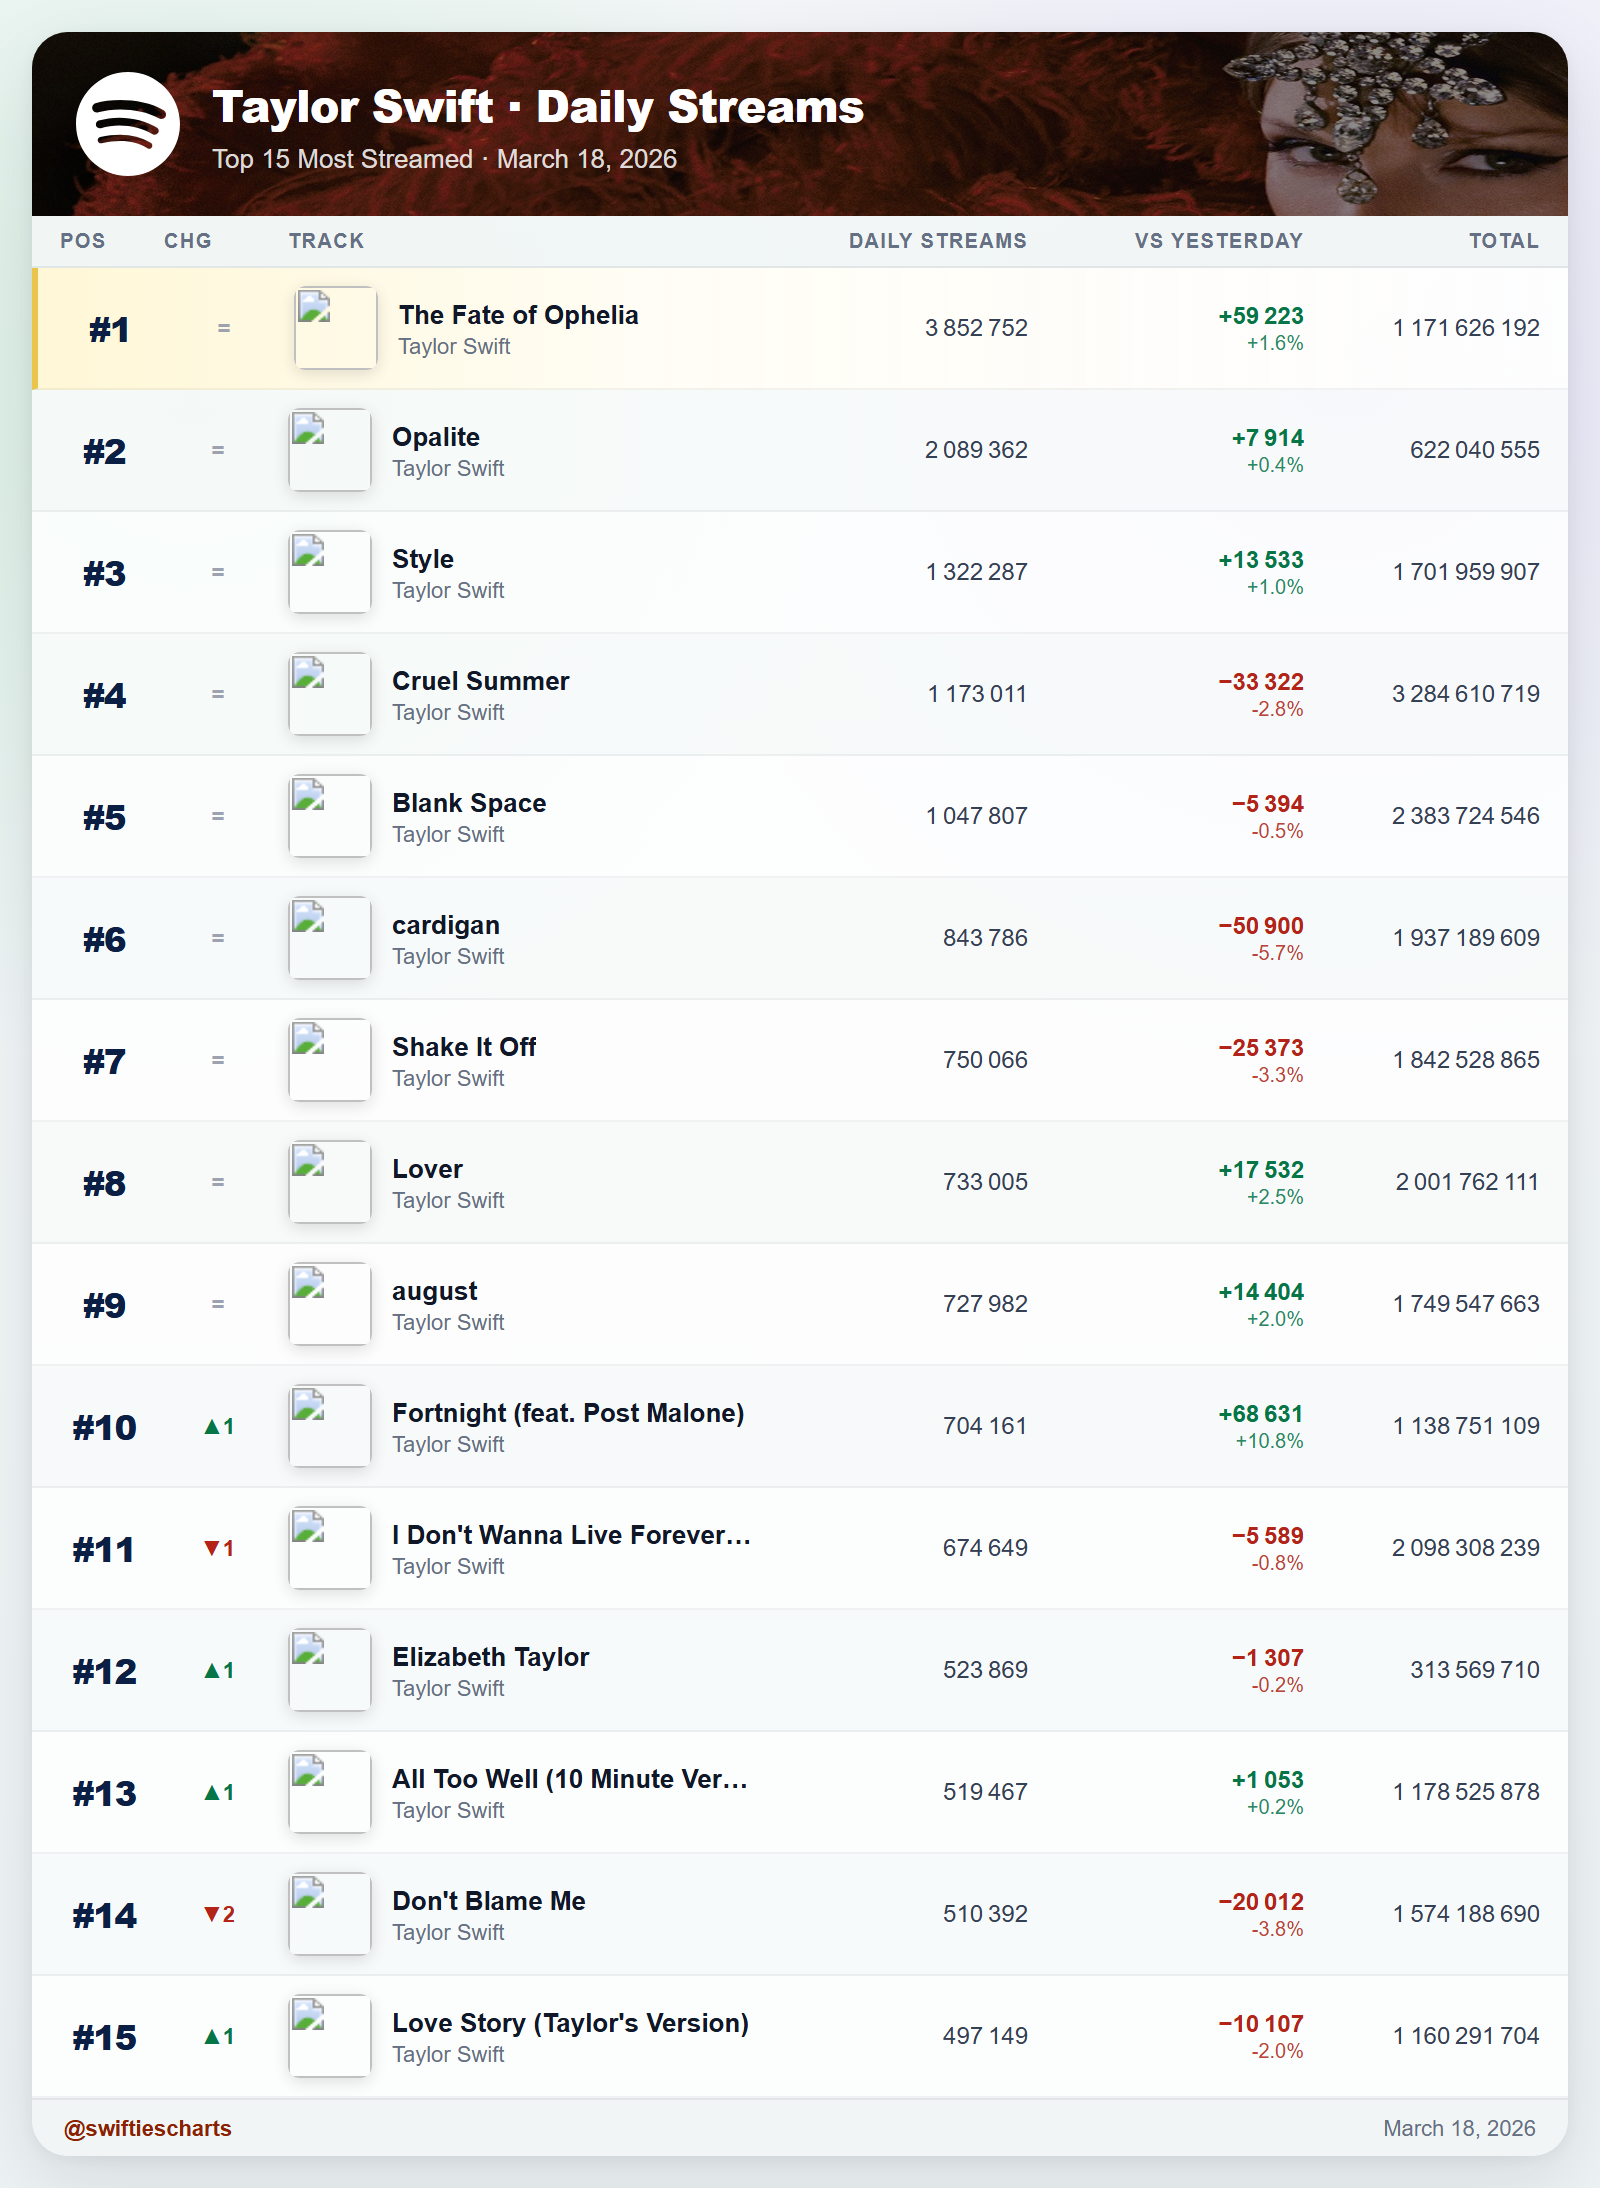
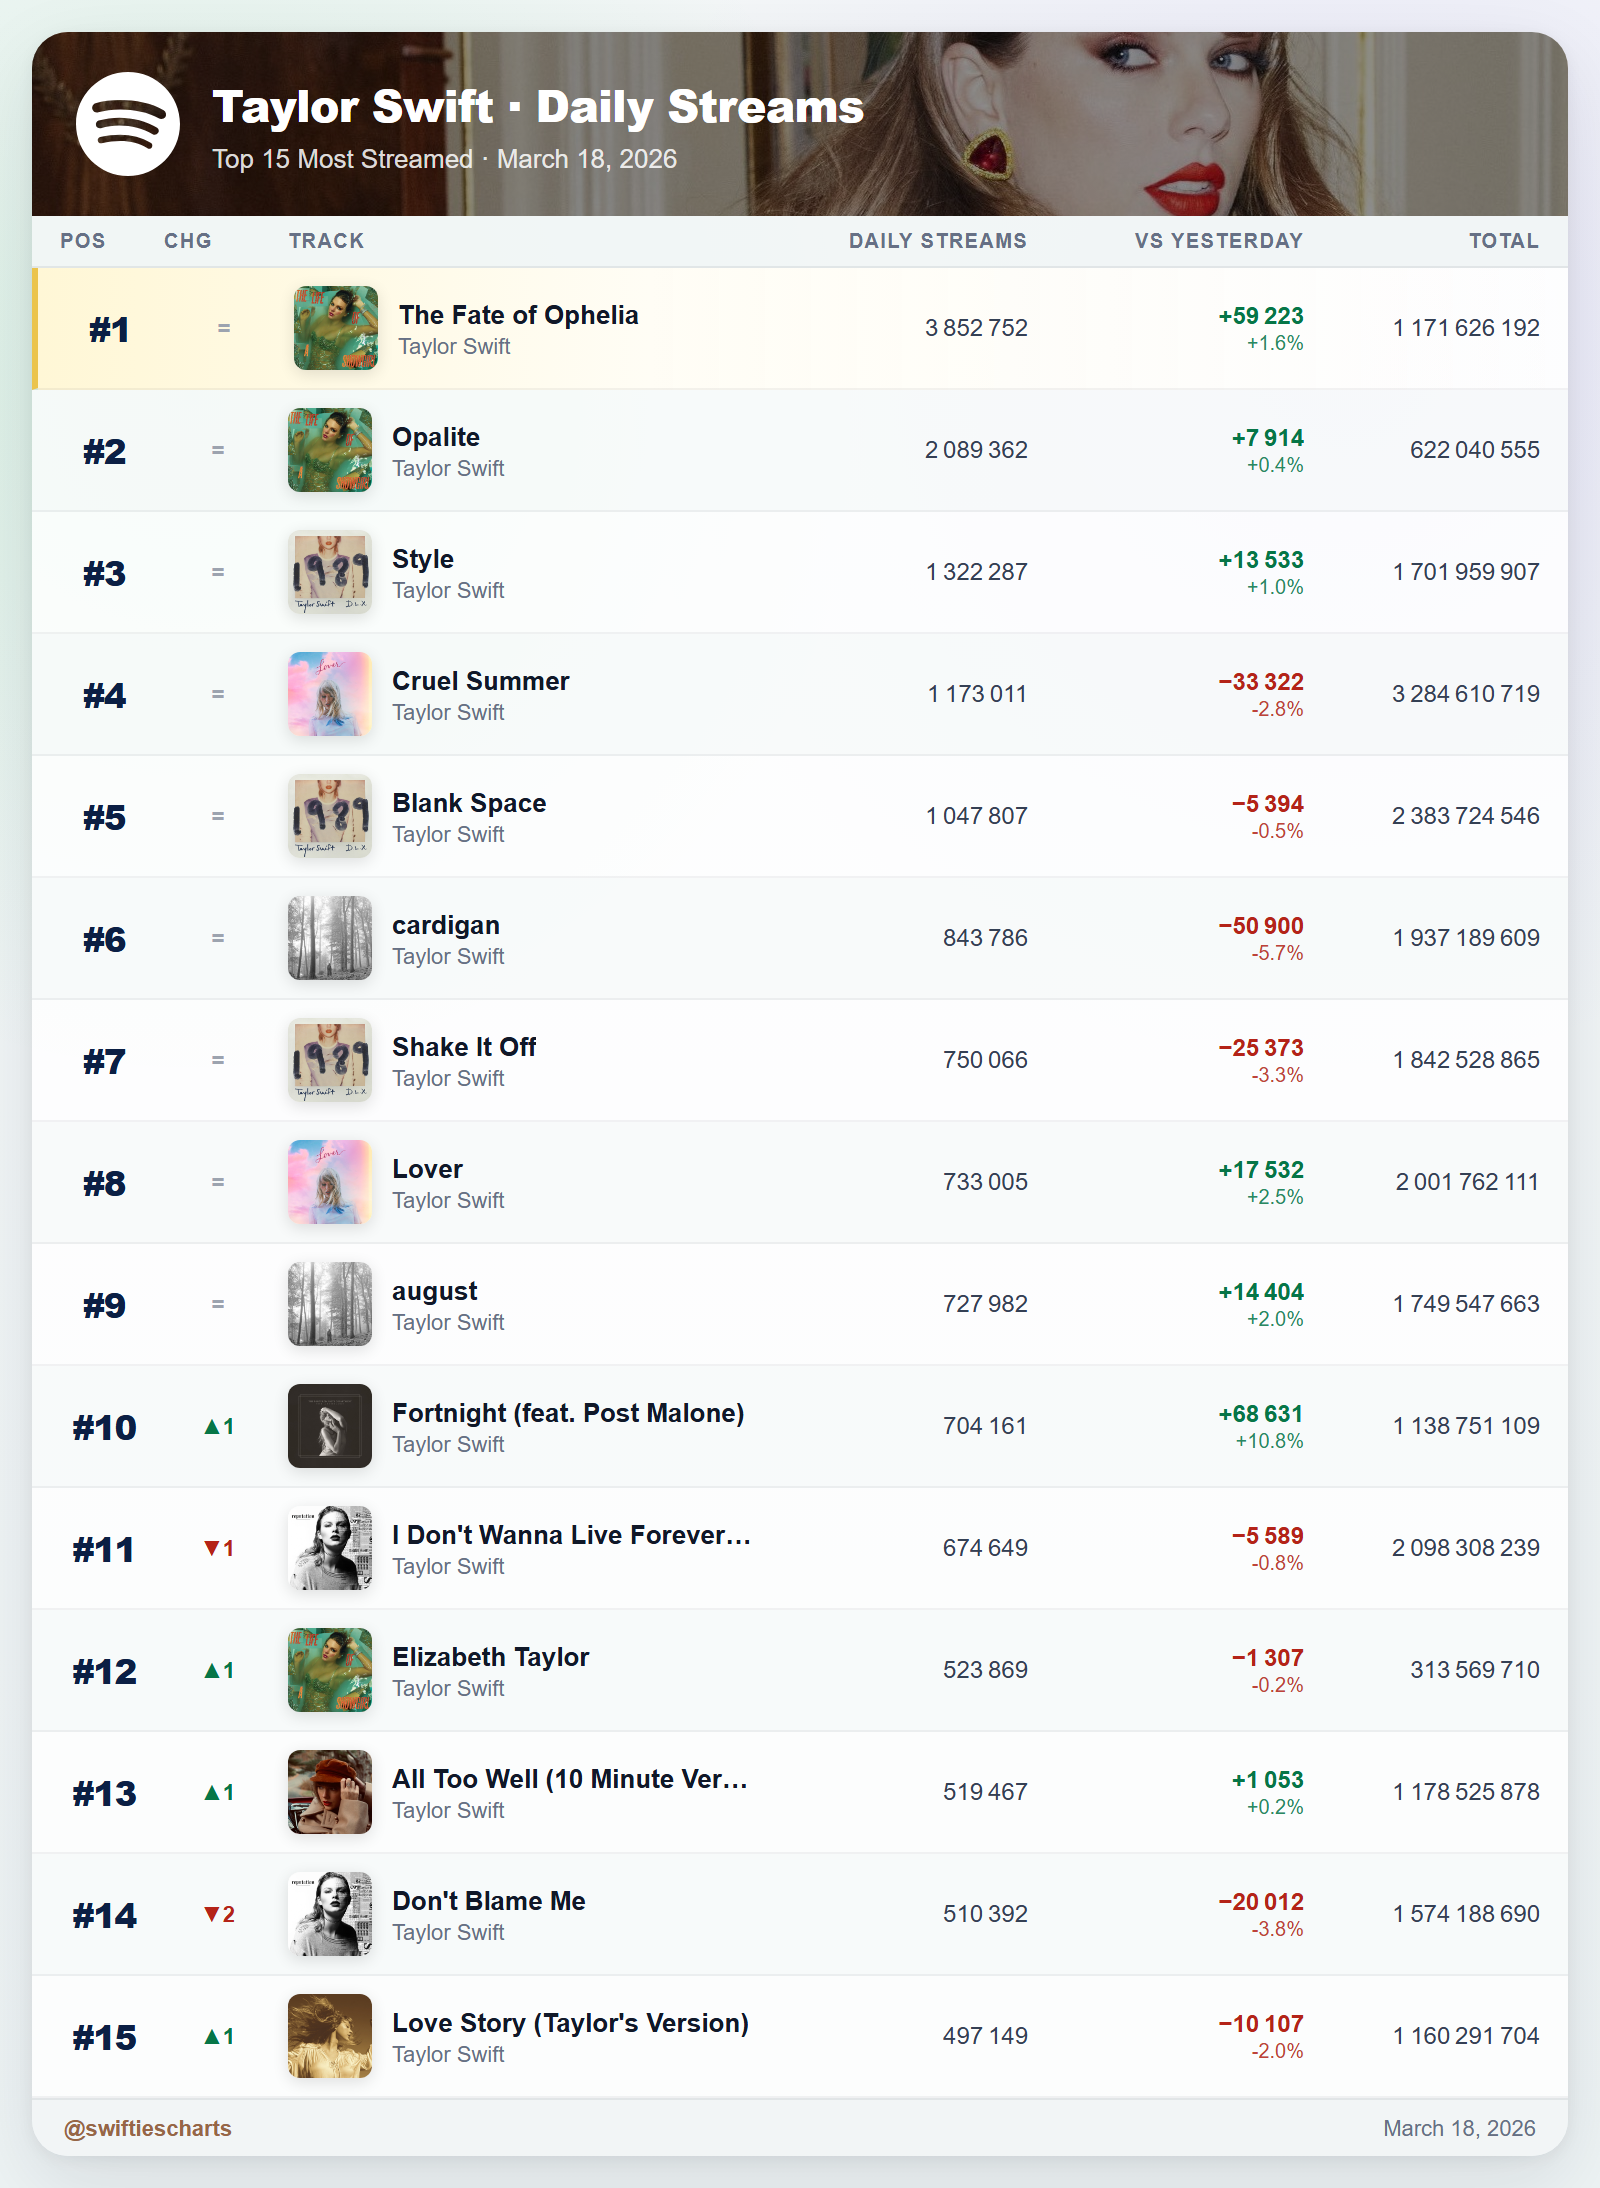
Refactor timeout settings and improve image handling in scraping scripts

Changed region(s): [[0.1562, 0.0, 1.0, 0.9634], [0.0, 0.0, 0.2188, 0.1243], [0.0625, 0.9634, 0.0938, 0.9945]]

diff --git a/website/albums.html b/website/albums.html
@@ -3,7 +3,7 @@
 <head>
   <meta charset="UTF-8">
   <meta name="viewport" content="width=device-width,initial-scale=1">
-  <title>Daily Charts • Albums</title>
+  <title>Daily Charts • Top Albums</title>
   <meta name="description" content="Browse Taylor Swift albums and open each album page with ranked songs.">
   <link rel="stylesheet" href="styles.css">
 </head>

diff --git a/collectors/spotify/streams/generate_streams_image.py b/collectors/spotify/streams/generate_streams_image.py
@@ -9,11 +9,14 @@ Usage:
   python generate_streams_image.py               # dernière date dans le CSV
   python generate_streams_image.py 2026-03-15    # date spécifique
 """
+import base64
 import colorsys
+import concurrent.futures
 import csv
 import json
 import re
 import sys
+import urllib.request
 from datetime import date as date_cls, timedelta
 from pathlib import Path
 
@@ -99,20 +102,21 @@ def load_covers() -> dict:
 
 
 def load_track_album_map() -> dict:
-    """Returns {normalized_track_title → album_title} from songs.json."""
-    if not SONGS_JSON.exists():
-        return {}
+    """Returns {normalized_track_title → album_title} from albums.json + songs.json."""
     result = {}
-    try:
-        groups = json.loads(SONGS_JSON.read_text(encoding="utf-8"))
-        for group in groups:
-            album_name = group.get("album", "")
-            for track in group.get("tracks", []):
-                title = track.get("title", "")
-                if title:
-                    result[_norm(title)] = album_name
-    except Exception:
-        pass
+    for path in [DB_DIR / "discography" / "albums.json", SONGS_JSON]:
+        if not path.exists():
+            continue
+        try:
+            groups = json.loads(path.read_text(encoding="utf-8"))
+            for group in groups:
+                album_name = group.get("album", "")
+                for track in group.get("tracks", []):
+                    title = track.get("title", "")
+                    if title:
+                        result[_norm(title)] = album_name
+        except Exception:
+            pass
     return result
 
 
@@ -368,7 +372,44 @@ SPOTIFY_SVG = """<svg class="hdr-logo" viewBox="0 0 24 24" fill="white" xmlns="h
 </svg>"""
 
 
-def build_rows_html(top15: list[dict], cover_map: dict, track_album_map: dict) -> str:
+def _url_to_data_uri(url: str) -> str:
+    """Download an image URL and return a base64 data URI (empty string on failure)."""
+    if not url:
+        return ""
+    try:
+        req = urllib.request.Request(url, headers={"User-Agent": "Mozilla/5.0"})
+        with urllib.request.urlopen(req, timeout=8) as r:
+            data = r.read()
+            ct = r.headers.get("Content-Type", "image/jpeg").split(";")[0].strip()
+            return f"data:{ct};base64,{base64.b64encode(data).decode()}"
+    except Exception:
+        return ""
+
+
+def prefetch_images(top15: list[dict], cover_map: dict, track_album_map: dict) -> dict[str, str]:
+    """Resolve cover URLs for all top15 entries and return {url: data_uri}."""
+    urls = set()
+    for entry in top15:
+        img_url = entry.get("image_url", "")
+        album_name = track_album_map.get(_norm(entry["title"]), "")
+        cover_url = cover_map.get(_norm(album_name), "") if album_name else ""
+        if not cover_url:
+            cover_url = img_url
+        if cover_url:
+            urls.add(cover_url)
+
+    result: dict[str, str] = {}
+    with concurrent.futures.ThreadPoolExecutor(max_workers=15) as ex:
+        futures = {ex.submit(_url_to_data_uri, u): u for u in urls}
+        for fut, url in futures.items():
+            data_uri = fut.result()
+            if data_uri:
+                result[url] = data_uri
+    return result
+
+
+def build_rows_html(top15: list[dict], cover_map: dict, track_album_map: dict,
+                    image_cache: dict[str, str] | None = None) -> str:
     html = ""
     for i, entry in enumerate(top15):
         rank    = i + 1
@@ -384,6 +425,10 @@ def build_rows_html(top15: list[dict], cover_map: dict, track_album_map: dict) -
         cover_url  = cover_map.get(_norm(album_name), "") if album_name else ""
         if not cover_url:
             cover_url = img_url
+
+        # Use pre-fetched data URI so Playwright doesn't need network access
+        if image_cache and cover_url:
+            cover_url = image_cache.get(cover_url, cover_url)
 
         art_html = (
             f'<img class="art" src="{cover_url}" />'
@@ -423,10 +468,11 @@ def build_rows_html(top15: list[dict], cover_map: dict, track_album_map: dict) -
     return html
 
 
-def build_html(top15: list[dict], target_date: str, cover_map: dict, track_album_map: dict) -> str:
+def build_html(top15: list[dict], target_date: str, cover_map: dict, track_album_map: dict,
+               image_cache: dict[str, str] | None = None) -> str:
     from datetime import datetime
     date_fmt   = datetime.strptime(target_date, "%Y-%m-%d").strftime("%B %d, %Y")
-    rows_html  = build_rows_html(top15, cover_map, track_album_map)
+    rows_html  = build_rows_html(top15, cover_map, track_album_map, image_cache)
 
     header_img   = _pick_header_image()
     handle_color = "#1db954"
@@ -436,7 +482,7 @@ def build_html(top15: list[dict], target_date: str, cover_map: dict, track_album
         img_url      = header_img.as_posix()
         hdr_style    = (
             f'style="background-image: linear-gradient(rgba(0,0,0,.45),rgba(0,0,0,.45)),'
-            f'url(\'file:///{img_url}\'); background-size:100% 100%;"'
+            f'url(\'file:///{img_url}\'); background-size:cover; background-position:center;"'
         )
     else:
         hdr_style = 'style="background:linear-gradient(135deg,#1db954 0%,#17a34a 100%);"'
@@ -492,7 +538,11 @@ def generate(target_date: str | None = None) -> Path:
         daily_fmt = f"{e['daily_streams']:,}"
         print(f"  #{i:2d} {e['title']:<40} {daily_fmt} streams/day")
 
-    html     = build_html(top15, target_date, cover_map, track_album_map)
+    print("Téléchargement des images...")
+    image_cache = prefetch_images(top15, cover_map, track_album_map)
+    print(f"  {len(image_cache)} images téléchargées")
+
+    html     = build_html(top15, target_date, cover_map, track_album_map, image_cache)
     out_path = SCRIPT_DIR / f"streams_image_{target_date}.png"
     tmp_html = SCRIPT_DIR / "_streams_tmp.html"
     tmp_html.write_text(html, encoding="utf-8")
@@ -502,7 +552,7 @@ def generate(target_date: str | None = None) -> Path:
             browser = p.chromium.launch(headless=True)
             page    = browser.new_page(viewport={"width": 800, "height": 200}, device_scale_factor=2)
             page.goto(f"file:///{tmp_html.as_posix()}", wait_until="load")
-            page.wait_for_timeout(1500)
+            page.wait_for_timeout(300)  # images are base64-embedded, no network needed
             page.locator("body").screenshot(path=str(out_path))
             browser.close()
     finally:

diff --git a/collectors/spotify/charts/global/filter.py b/collectors/spotify/charts/global/filter.py
@@ -176,12 +176,12 @@ def scrape_chart_rows(chart_date: str) -> list[dict]:
                 )
 
                 page = context.new_page()
-                page.set_default_navigation_timeout(120_000)
-                page.set_default_timeout(120_000)
+                page.set_default_navigation_timeout(60_000)
+                page.set_default_timeout(60_000)
 
                 print(f"  Ouverture {url} (attempt {attempt}/3)...")
-                page.goto(url, wait_until="load", timeout=120_000)
-                page.wait_for_timeout(6000)
+                page.goto(url, wait_until="domcontentloaded", timeout=60_000)
+                page.wait_for_timeout(4000)
 
                 current_url = page.url.lower()
                 if "login" in current_url or "accounts.spotify.com" in current_url:
@@ -195,7 +195,7 @@ def scrape_chart_rows(chart_date: str) -> list[dict]:
                 stable_count = 0
                 while stable_count < 3:
                     page.mouse.wheel(0, 3000)
-                    page.wait_for_timeout(800)
+                    page.wait_for_timeout(500)
                     new_height = page.evaluate("document.body.scrollHeight")
                     if new_height == prev_height:
                         stable_count += 1
@@ -244,7 +244,7 @@ def scrape_chart_rows(chart_date: str) -> list[dict]:
                         # Click on the track name to expand its detail row
                         el = page.get_by_text(track, exact=True).first
                         el.click(timeout=5000)
-                        page.wait_for_timeout(1500)
+                        page.wait_for_timeout(800)
                         # Look for the "Total days on chart" label element, then grab its sibling value
                         td_label = page.get_by_text("Total days on chart", exact=True)
                         if td_label.count() > 0:
@@ -260,7 +260,7 @@ def scrape_chart_rows(chart_date: str) -> list[dict]:
                             print(f"  'Total days on chart' non trouvé dans DOM pour {track}")
                         # Collapse by clicking again
                         el.click(timeout=3000)
-                        page.wait_for_timeout(400)
+                        page.wait_for_timeout(200)
                     except Exception as td_err:
                         print(f"  total_days ignoré pour {track}: {td_err}")
 

diff --git a/collectors/spotify/charts/fr/filter.py b/collectors/spotify/charts/fr/filter.py
@@ -345,12 +345,12 @@ def scrape_chart_rows(chart_date: str) -> list[dict]:
                 )
 
                 page = context.new_page()
-                page.set_default_navigation_timeout(120_000)
-                page.set_default_timeout(120_000)
+                page.set_default_navigation_timeout(60_000)
+                page.set_default_timeout(60_000)
 
                 print(f"  Ouverture {url} (attempt {attempt}/3)...")
-                page.goto(url, wait_until="load", timeout=120_000)
-                page.wait_for_timeout(6000)
+                page.goto(url, wait_until="domcontentloaded", timeout=60_000)
+                page.wait_for_timeout(4000)
 
                 current_url = page.url.lower()
                 if "login" in current_url or "accounts.spotify.com" in current_url:
@@ -364,7 +364,7 @@ def scrape_chart_rows(chart_date: str) -> list[dict]:
                 stable_count = 0
                 while stable_count < 3:
                     page.mouse.wheel(0, 3000)
-                    page.wait_for_timeout(800)
+                    page.wait_for_timeout(500)
                     new_height = page.evaluate("document.body.scrollHeight")
                     if new_height == prev_height:
                         stable_count += 1
@@ -412,7 +412,7 @@ def scrape_chart_rows(chart_date: str) -> list[dict]:
                     try:
                         el = page.get_by_text(track, exact=True).first
                         el.click(timeout=5000)
-                        page.wait_for_timeout(1500)
+                        page.wait_for_timeout(800)
                         td_label = page.get_by_text("Total days on chart", exact=True)
                         if td_label.count() > 0:
                             container_text = td_label.first.locator("xpath=..").inner_text()
@@ -425,7 +425,7 @@ def scrape_chart_rows(chart_date: str) -> list[dict]:
                         else:
                             print(f"  'Total days on chart' non trouvé dans DOM pour {track}")
                         el.click(timeout=3000)
-                        page.wait_for_timeout(400)
+                        page.wait_for_timeout(200)
                     except Exception as td_err:
                         print(f"  total_days ignoré pour {track}: {td_err}")
 

diff --git a/collectors/spotify/streams/update_streams.py b/collectors/spotify/streams/update_streams.py
@@ -37,8 +37,8 @@ ARTIST_PATH      = DISCOGRAPHY_DIR / "artist.json"
 ARTIST_URL = "https://open.spotify.com/artist/06HL4z0CvFAxyc27GXpf02"
 
 HEADLESS = False
-MAX_PARALLEL_PAGES = 10
-PAGE_GOTO_TIMEOUT_MS = 45_000
+MAX_PARALLEL_PAGES = 15
+PAGE_GOTO_TIMEOUT_MS = 20_000
 DEBUG_PAGE_PREVIEW = False
 
 PROBE_TITLES = [
@@ -882,13 +882,13 @@ def scrape_track_total(page, title: str, url: str) -> tuple[int | None, str | No
     for attempt in range(3):
         try:
             page.goto(clean_url, wait_until="commit", timeout=PAGE_GOTO_TIMEOUT_MS)
-            page.wait_for_timeout(1000)
+            page.wait_for_timeout(500)
             maybe_accept_cookies(page)
 
             if DEBUG_PAGE_PREVIEW:
                 debug_page_preview(page, title, clean_url)
 
-            for wait_ms in (1000, 2000, 3000):
+            for wait_ms in (500, 1000, 2000):
                 total, raw, recs = extract_page_data(page)
                 if total is not None:
                     return total, raw, "ok", recs
